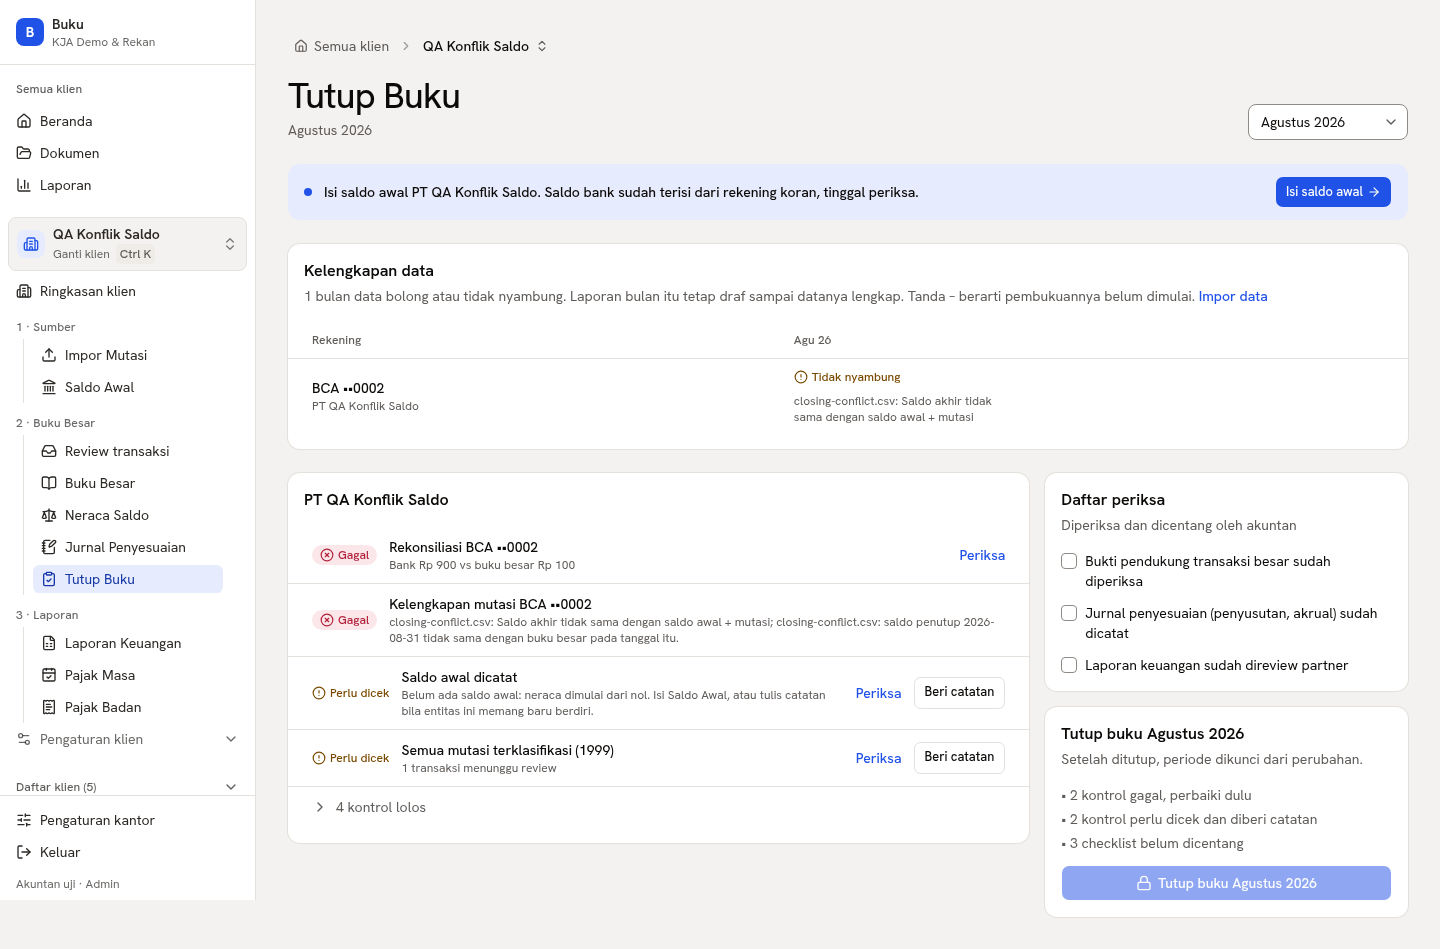
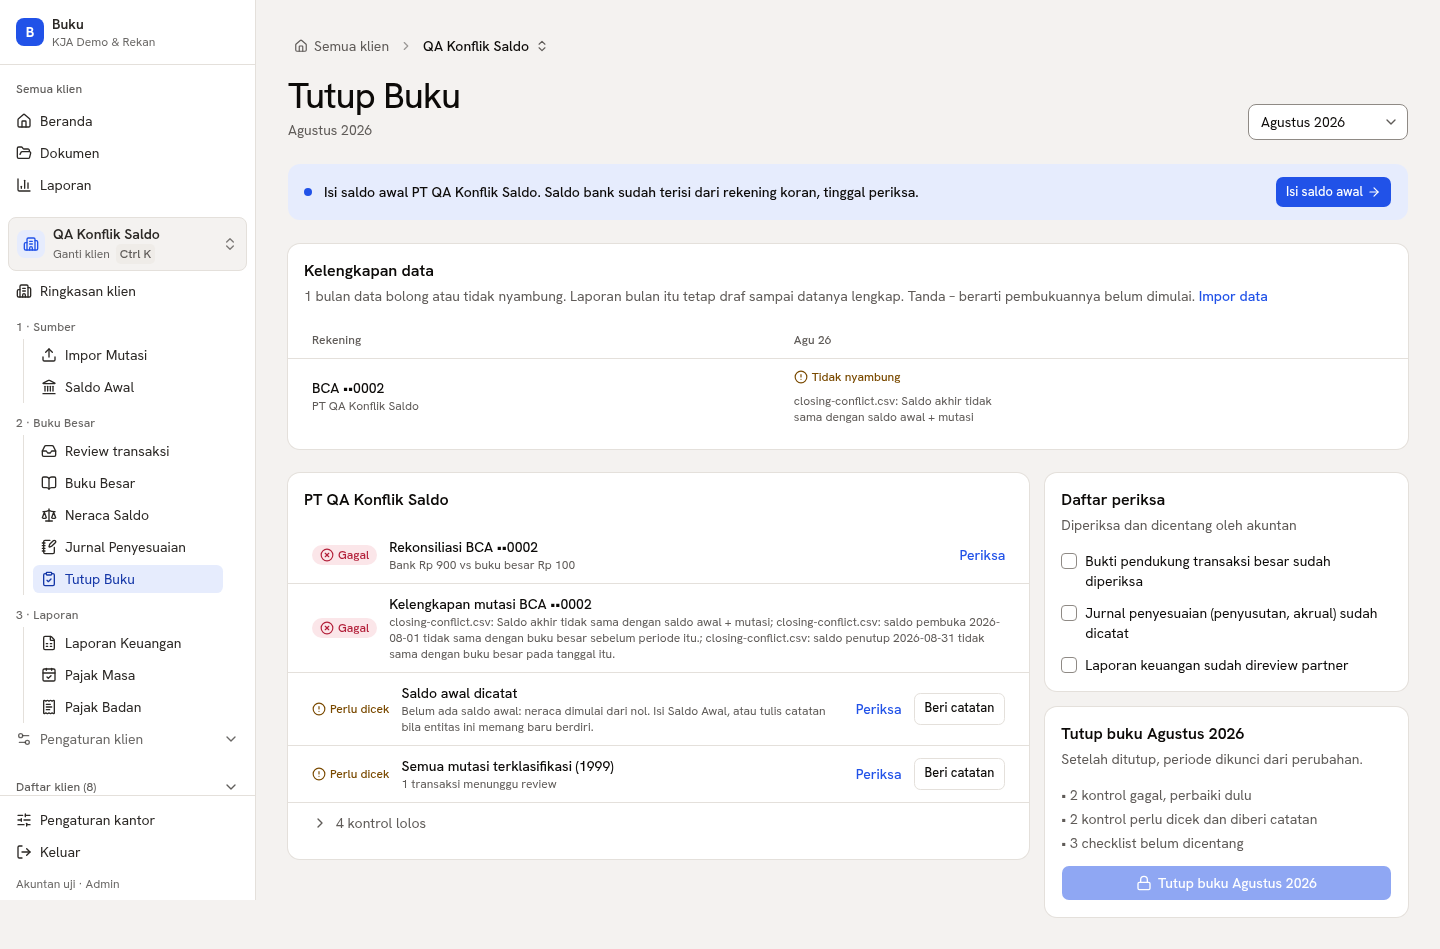
fix(close): verify printed opening checkpoints across overlapping sources
Cycle: docs/cycles/2026-10-10-bank-import-correctness.md

Changed region(s): [[0.2188, 0.6723, 0.6875, 0.8862], [0.2188, 0.6417, 0.2812, 0.6723], [0.6562, 0.6417, 0.6875, 0.6723]]

diff --git a/lib/controls/coverage.ts b/lib/controls/coverage.ts
@@ -30,15 +30,26 @@ export async function openingDate(db: Db | Tx, entityId: string) {
 }
 
 /** Shared evidence assessment for close controls and report readiness. */
-export function statementEvidence(coverage: StatementImport[], end: Date) {
+export function statementEvidence(coverage: StatementImport[], end: Date, booksOpening: Date | null) {
   const validations = coverage.map((c) => ({ c, v: readValidation(c.sourceValidation) }));
   const messages = validations.flatMap(({ c, v }) => v ? v.issues.map((i) => `${c.fileName}: ${i.message}`) : [`${c.fileName}: bukti validasi sumber belum tersedia; impor ulang file asli.`]);
+  const beforeBooks = booksOpening ? validations.filter(({ c, v }) => v?.source.period === "DECLARED" && v.source.opening === "PRINTED" && +c.periodStart <= +booksOpening) : [];
+  for (const { c } of beforeBooks) messages.push(`${c.fileName}: saldo pembuka sumber mendahului awal pembukuan; cocokkan dengan bukti saldo sebelum pembukuan dimulai.`);
   let conflict = validations.some(({ c, v }) => !c.continuityOk || v?.issues.some((i) => i.severity === "CONFLICT"));
   // Adjacent independently printed fragments must hand the same balance to one
   // another. Offsetting gaps cannot turn a final matching GL into completeness.
   const byEnd = new Map<number, StatementImport[]>();
+  const byStart = new Map<number, StatementImport>();
   for (const { c, v } of validations) {
     if (v?.source.period !== "DECLARED") continue;
+    if (v.source.opening === "PRINTED") {
+      const previous = byStart.get(+c.periodStart);
+      if (previous && previous.openingBalance !== c.openingBalance) {
+        conflict = true;
+        messages.push(`${previous.fileName} → ${c.fileName}: saldo pembuka untuk awal periode yang sama berbeda.`);
+      }
+      if (!previous) byStart.set(+c.periodStart, c);
+    }
     if (v.source.opening === "PRINTED") for (const previous of byEnd.get(+c.periodStart - 86_400_000) ?? []) {
       if (previous.closingBalance !== c.openingBalance) {
         conflict = true;
@@ -54,26 +65,38 @@ export function statementEvidence(coverage: StatementImport[], end: Date) {
   const checkpoint = checkpoints.at(-1)?.c;
   const disagree = !!checkpoint && checkpoints.some(({ c }) => c.closingBalance !== checkpoint.closingBalance);
   if (disagree) messages.push("Saldo akhir antarfile berbeda. Periksa sumber sebelum menutup bulan.");
-  return { checkpoint, conflict: conflict || disagree, uncertain: validations.some(({ v }) => !v || v.issues.length > 0), messages };
+  return { checkpoint, conflict: conflict || disagree, uncertain: beforeBooks.length > 0 || validations.some(({ v }) => !v || v.issues.length > 0), messages };
 }
 
 /** Reconcile every comparable source checkpoint, including those inside overlapping files. */
-export async function sourceCheckpointConflicts(db: Db | Tx, entityId: string, accountId: string, coverage: StatementImport[], end: Date) {
-  const checkpoints = coverage.filter((c) => {
+export async function sourceCheckpointConflicts(db: Db | Tx, entityId: string, accountId: string, coverage: StatementImport[], end: Date, booksOpening: Date | null) {
+  const checkpoints = coverage.flatMap((c) => {
     const v = readValidation(c.sourceValidation);
-    return +c.periodEnd <= +end && v?.source.period === "DECLARED" && v.source.closing !== "DERIVED" && !v.issues.some((i) => i.code === "CLOSING_BEFORE_END");
-  }).sort((a, b) => +a.periodEnd - +b.periodEnd);
+    if (v?.source.period !== "DECLARED") return [];
+    const points: { date: Date; balance: bigint; message: string }[] = [];
+    // Opening is the balance before the first covered day. Never compare it to
+    // a zero ledger before the entity's books actually start.
+    if (v.source.opening === "PRINTED" && (!booksOpening || +c.periodStart > +booksOpening)) points.push({
+      date: new Date(+c.periodStart - 86_400_000), balance: c.openingBalance,
+      message: `${c.fileName}: saldo pembuka ${c.periodStart.toISOString().slice(0, 10)} tidak sama dengan buku besar sebelum periode itu.`,
+    });
+    if (+c.periodEnd <= +end && v.source.closing !== "DERIVED" && !v.issues.some((i) => i.code === "CLOSING_BEFORE_END")) points.push({
+      date: c.periodEnd, balance: c.closingBalance,
+      message: `${c.fileName}: saldo penutup ${c.periodEnd.toISOString().slice(0, 10)} tidak sama dengan buku besar pada tanggal itu.`,
+    });
+    return points;
+  }).sort((a, b) => +a.date - +b.date);
   if (!checkpoints.length) return [];
   const movements = await db.journalLine.groupBy({ by: ["date"], where: { entityId, accountId, date: { lte: end } }, _sum: { debit: true, credit: true }, orderBy: { date: "asc" } });
   let index = 0;
   let balance = 0n;
   const conflicts: string[] = [];
-  for (const source of checkpoints) {
-    while (index < movements.length && +movements[index].date <= +source.periodEnd) {
+  for (const point of checkpoints) {
+    while (index < movements.length && +movements[index].date <= +point.date) {
       balance += (movements[index]._sum.debit ?? 0n) - (movements[index]._sum.credit ?? 0n);
       index++;
     }
-    if (source.closingBalance !== balance) conflicts.push(`${source.fileName}: saldo penutup ${source.periodEnd.toISOString().slice(0, 10)} tidak sama dengan buku besar pada tanggal itu.`);
+    if (point.balance !== balance) conflicts.push(point.message);
   }
   return conflicts;
 }

diff --git a/tests/db/statement-validation.test.ts b/tests/db/statement-validation.test.ts
@@ -166,6 +166,48 @@ describe("source validation reaches controls and report status", () => {
     expect(await hasStatementReason(g, bank.label)).toBe(false);
   });
 
+  it.each(["01/08/2026", "10/08/2026"])("fails a duplicate-only source with an inflated opening on %s even when every closing agrees", async (start) => {
+    const { g, bank, load } = await setup();
+    await load(bca([receipt("15/08/2026", 100, 1100), receipt("20/08/2026", 200, 1300, "CUSTOMER B")], { closing: 1300 }), "complete.csv");
+    const journals = await db.journalEntry.count();
+    const second = await load(bca([receipt("20/08/2026", 200, 1300, "CUSTOMER B")], { start, opening: 1100, closing: 1300 }), "inflated-opening.csv");
+    expect(second.duplicates).toBe(1);
+    expect(await db.journalEntry.count()).toBe(journals);
+    const status = await statuses(g.client.id, bank.id);
+    expect(status.bank?.status).toBe("FAIL");
+    expect(status.continuity?.status).toBe("FAIL");
+    expect(await hasStatementReason(g, bank.label)).toBe(true);
+  });
+
+  it("compares source openings at book start without assuming a zero prehistory", async () => {
+    const g = await makeGroup();
+    await postOpening(db, { clientId: g.client.id, entityId: g.pt.entity.id, date: dateOnly(2026, 8, 1), lines: [{ accountCode: "1101", debit: "1000", credit: "0" }, { accountCode: "3100", debit: "0", credit: "1000" }] });
+    const bank = g.pt.banks[0];
+    await importStatement(db, { bankAccountId: bank.id, fileName: "complete.csv", data: bca([receipt("15/08/2026", 100, 1100), receipt("20/08/2026", 200, 1300, "CUSTOMER B")], { closing: 1300 }), provider: null });
+    const status = await statuses(g.client.id, bank.id);
+    expect(status.bank?.status).toBe("REVIEW");
+    expect(status.continuity?.status).toBe("REVIEW");
+    expect(await hasStatementReason(g, bank.label)).toBe(true);
+    await importStatement(db, { bankAccountId: bank.id, fileName: "inflated-opening.csv", data: bca([receipt("20/08/2026", 200, 1300, "CUSTOMER B")], { opening: 1100, closing: 1300 }), provider: null });
+    const conflict = await statuses(g.client.id, bank.id);
+    expect(conflict.bank?.status).toBe("FAIL");
+    expect(conflict.continuity?.status).toBe("FAIL");
+    expect(await hasStatementReason(g, bank.label)).toBe(true);
+  });
+
+  it("does not bless an unverifiable pre-book opening when another source starts on a different day", async () => {
+    const g = await makeGroup();
+    await postOpening(db, { clientId: g.client.id, entityId: g.pt.entity.id, date: dateOnly(2026, 8, 1), lines: [{ accountCode: "1101", debit: "1000", credit: "0" }, { accountCode: "3100", debit: "0", credit: "1000" }] });
+    const bank = g.pt.banks[0];
+    await importStatement(db, { bankAccountId: bank.id, fileName: "complete.csv", data: bca([receipt("15/08/2026", 100, 1100), receipt("20/08/2026", 200, 1300, "CUSTOMER B")], { start: "02/08/2026", closing: 1300 }), provider: null });
+    expect((await statuses(g.client.id, bank.id)).bank?.status).toBe("PASS");
+    await importStatement(db, { bankAccountId: bank.id, fileName: "unverifiable-opening.csv", data: bca([receipt("20/08/2026", 200, 1300, "CUSTOMER B")], { opening: 1100, closing: 1300 }), provider: null });
+    const status = await statuses(g.client.id, bank.id);
+    expect(status.bank?.status).toBe("REVIEW");
+    expect(status.continuity?.status).toBe("REVIEW");
+    expect(await hasStatementReason(g, bank.label)).toBe(true);
+  });
+
   it("keeps reports marked incomplete when a multi-month file lacks an August closing checkpoint", async () => {
     const { g, bank, load } = await setup();
     await load(bca([receipt("01/08/2026", 100, 1100), receipt("30/09/2026", 200, 1300, "CUSTOMER B")], { end: "30/09/2026", closing: 1300 }));

diff --git a/lib/controls/index.ts b/lib/controls/index.ts
@@ -167,8 +167,8 @@ async function collectControls(db: Db, clientId: string, year: number, month: nu
         continue;
       }
       const { coverage } = cover;
-      const evidence = statementEvidence(coverage, end);
-      const checkpointConflicts = await sourceCheckpointConflicts(db, e.id, ba.accountId, coverage, end);
+      const evidence = statementEvidence(coverage, end, opening);
+      const checkpointConflicts = await sourceCheckpointConflicts(db, e.id, ba.accountId, coverage, end, opening);
       evidence.conflict ||= checkpointConflicts.length > 0;
       evidence.messages.push(...checkpointConflicts);
       const { checkpoint } = evidence;
@@ -183,7 +183,7 @@ async function collectControls(db: Db, clientId: string, year: number, month: nu
         detail: differs ? `Bank ${fmt(checkpoint.closingBalance)} vs buku besar ${fmt(gl)}`
           : evidence.conflict ? "Saldo pada sumber bertentangan; periksa kelengkapan mutasi."
           : verified ? `Saldo bank = buku besar = ${fmt(gl)}`
-          : "Cakupan atau saldo akhir bulan belum terbukti dari sumber. Impor rekening koran lengkap sampai akhir bulan.",
+          : "Cakupan atau saldo sumber belum sepenuhnya terbukti. Periksa rincian kelengkapan mutasi dan bukti saldo.",
         href: `${base}/ledger/${ba.account.code}?entity=${e.id}`,
         ack: acks.get(key),
       });

diff --git a/lib/reports/status.ts b/lib/reports/status.ts
@@ -60,8 +60,8 @@ export async function reportStatus(db: Db, clientId: string, entityIds: string[]
     for (const ba of e.bankAccounts) {
       const cover = await statementCoverage(db, ba.id, opening, start, end);
       if (cover.state === "before") continue;
-      const evidence = cover.state === "missing" ? null : statementEvidence(cover.coverage, end);
-      if (cover.state !== "covered" || !evidence?.checkpoint || evidence.uncertain || evidence.conflict || (await sourceCheckpointConflicts(db, e.id, ba.accountId, cover.coverage, end)).length) missing.push(ba.label);
+      const evidence = cover.state === "missing" ? null : statementEvidence(cover.coverage, end, opening);
+      if (cover.state !== "covered" || !evidence?.checkpoint || evidence.uncertain || evidence.conflict || (await sourceCheckpointConflicts(db, e.id, ba.accountId, cover.coverage, end, opening)).length) missing.push(ba.label);
     }
   }
   if (missing.length) reasons.push({ kind: "statements", accounts: missing });

diff --git a/docs/cycles/2026-10-10-bank-import-correctness.md b/docs/cycles/2026-10-10-bank-import-correctness.md
@@ -32,6 +32,7 @@ Approval: the user approved the review's three-stage proposal on 2026-10-10: “
 - T3: `lib/controls/*`, `lib/reports/status.ts`, `lib/ocr/*`, OCR review UI and source/controls regressions — nullable versioned `StatementImport.sourceValidation`, preserved printed balances, declared/inferred provenance, shared coverage/checkpoint/handoff checks for reports and close. Strict legacy attestation can revalidate exactly matching complete rows without changing journals. OCR requires closing evidence and refuses malformed/oversized output; unresolved missing amounts refuse the whole bank import.
 - T4: `tests/unit/statement-mutations.test.ts`, `e2e/bank-source-integrity.spec.ts`, demo/docs and review screenshots — deterministic BCA/XLSX mutation corpus (20 positive + 130 corrupted files), source-to-journal/control DB regressions, transfer race barrier, browser date-order and conflicting-closing flows. Demo and accounting rules now describe source reviews honestly.
 - Review iteration: caught invalid-date/layout fallback bypasses, PDF currency-column bypass, PDF administrative numbers misread as money, false completeness across adjacent slices, missing intermediate monthly checkpoints, repeated-fee hash collisions after balance cycles, and stale transfer pairing. Each has a regression case.
+- Post-draft T3 review: reproduced false PASS with a duplicate-only overlapping source that inflated its printed opening while keeping every closing correct. Opening checkpoints now compare against the ledger before the source period, and same-start printed openings compare with each other. Openings predating the entity books stay REVIEW instead of assuming a zero prehistory. Independent review added the different-start boundary regression. No journals are rewritten.
 - Gate strategy: independent parser slices ran focused units; the integrated working tree runs the full lint/type/test gate before task commits, because identity and persisted evidence share the import boundary. Database reset suites run serially; browser uses the separate local demo database.
 
 ## Verification
@@ -50,7 +51,8 @@ Approval: the user approved the review's three-stage proposal on 2026-10-10: “
 - Full browser gate, final output: `71 passed (9.1m)`; no skipped tests. This includes date-order mapping, contradictory closing, locked PDF import, investor close and existing access boundaries.
 - Final production rebuild passed after the OCR copy review. Lint/typecheck were rerun successfully for that wording change. Inspected OCR at 1440×900 and 375×812: required closing visible, import disabled while absent, no page overflow. Synthetic screenshots are in `docs/reviews/bank-import-correctness/`.
 - Review changed the OCR notice from an incorrect count of unproven transaction rows to checks on dates, amounts or balances; the missing closing is now described accurately.
-- GitHub CI: running on draft PR #137; final status is recorded in the PR checks.
+- Opening-check follow-up: the two new adversarial cases failed before the fix (`expected PASS to be FAIL`); focused verification after boundary review: 3 files / 22 tests passed. Final follow-up lint/typecheck/build passed; full gate: 213 files / 1,700 tests passed in 638.18s. Independent books check remained 1,765 PASS. Fresh-server browser run: 70 passed, one existing document-upload pause assertion timed out while its fifth upload was still running under concurrent test load. After the final rebuild, the entire document workspace spec passed (3 tests, 43.6s), without code changes or skipped assertions. CI repeats both full browser modes on the final commit. Inspected the revised REVIEW message at desktop and phone widths; no overflow (`bank-source-review-*.png`).
+- GitHub CI: [PR #137 checks](https://github.com/ismailir10/accounting-erp/pull/137/checks) record the final release status. Superseded runs were cancelled during review; the final follow-up commit runs every gate, including both browser modes.
 
 ## Ship Notes
 - Migration: additive nullable JSONB column `StatementImport.sourceValidation`; no data rewrite/backfill and no journal migration. Deploy through the normal reviewed PR process; no production migration executed in this session.

diff --git a/README.md b/README.md
@@ -180,6 +180,6 @@ Decisions live in [docs/adrs](docs/adrs/README.md). Demo data is synthetic — n
 
 ## Bank source correctness
 
-Printed totals remain independent evidence. A contradictory opening, running balance or closing is a failing close control; it is not replaced by a calculated total. Completeness requires declared coverage through month end and a closing checkpoint. Inferred periods/balances, repairs and legacy imports without validation stay in review. An exact, complete re-upload can revalidate matching legacy rows without changing journals; ambiguous matches require correcting/removing the old import explicitly.
+Printed totals remain independent evidence. A contradictory opening, running balance or closing is a failing close control; it is not replaced by a calculated total. Completeness requires declared coverage through month end and a closing checkpoint. Comparable printed opening and closing checkpoints must match the ledger; openings before the books began remain in review. Inferred periods/balances, repairs and legacy imports without validation stay in review. An exact, complete re-upload can revalidate matching legacy rows without changing journals; ambiguous matches require correcting/removing the old import explicitly.
 
 Re-uploading identical source bytes is idempotent. Across different sources, matching dates and amounts alone never establish identity: ambiguous overlaps are refused before posting. OCR requires a closing balance and rejects malformed or oversized transcripts without truncation. The synthetic [source mutation corpus](tests/unit/statement-mutations.test.ts) complements [database evidence/controls regressions](tests/db/statement-validation.test.ts); external anonymized bank-issued holdouts are still needed to measure real-world parser coverage.
